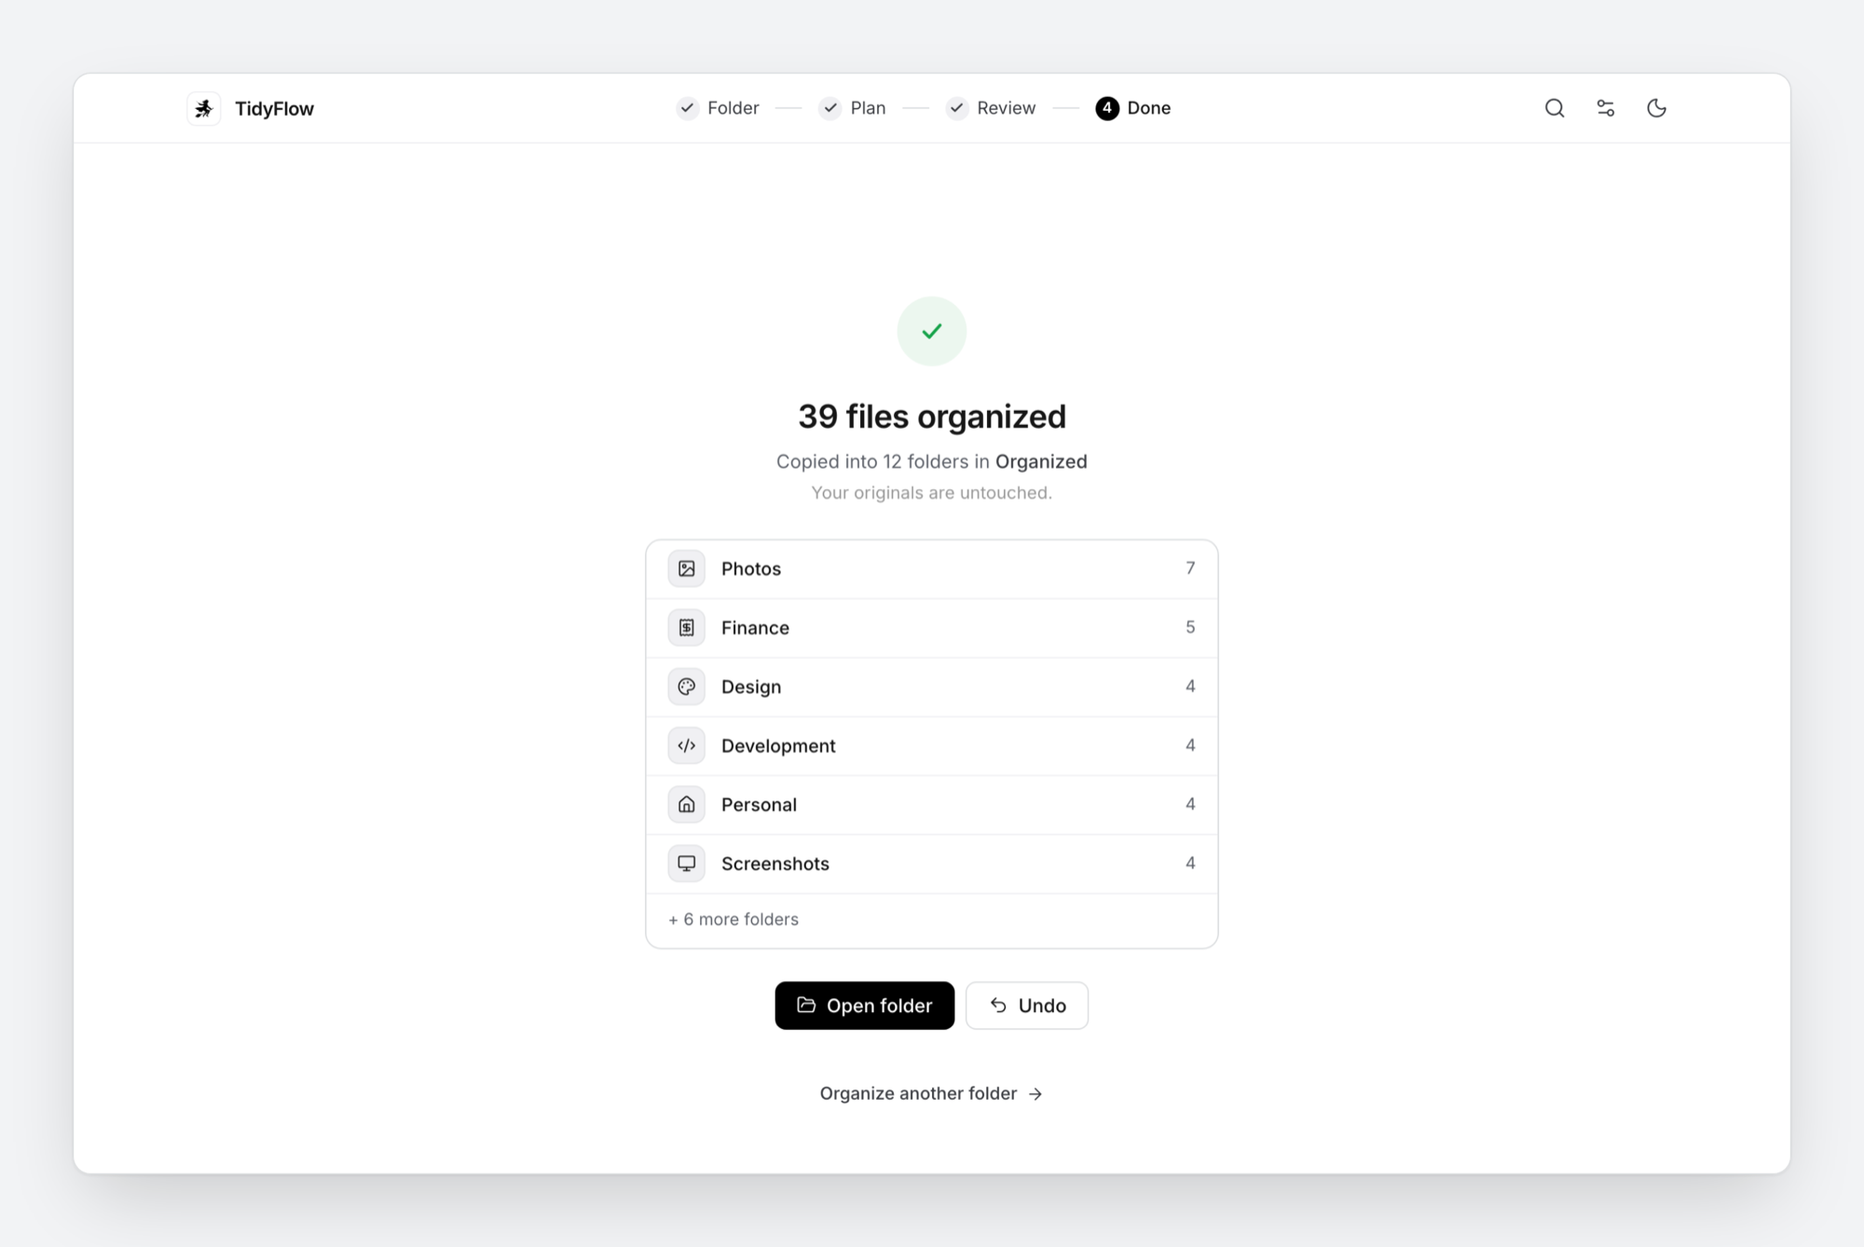
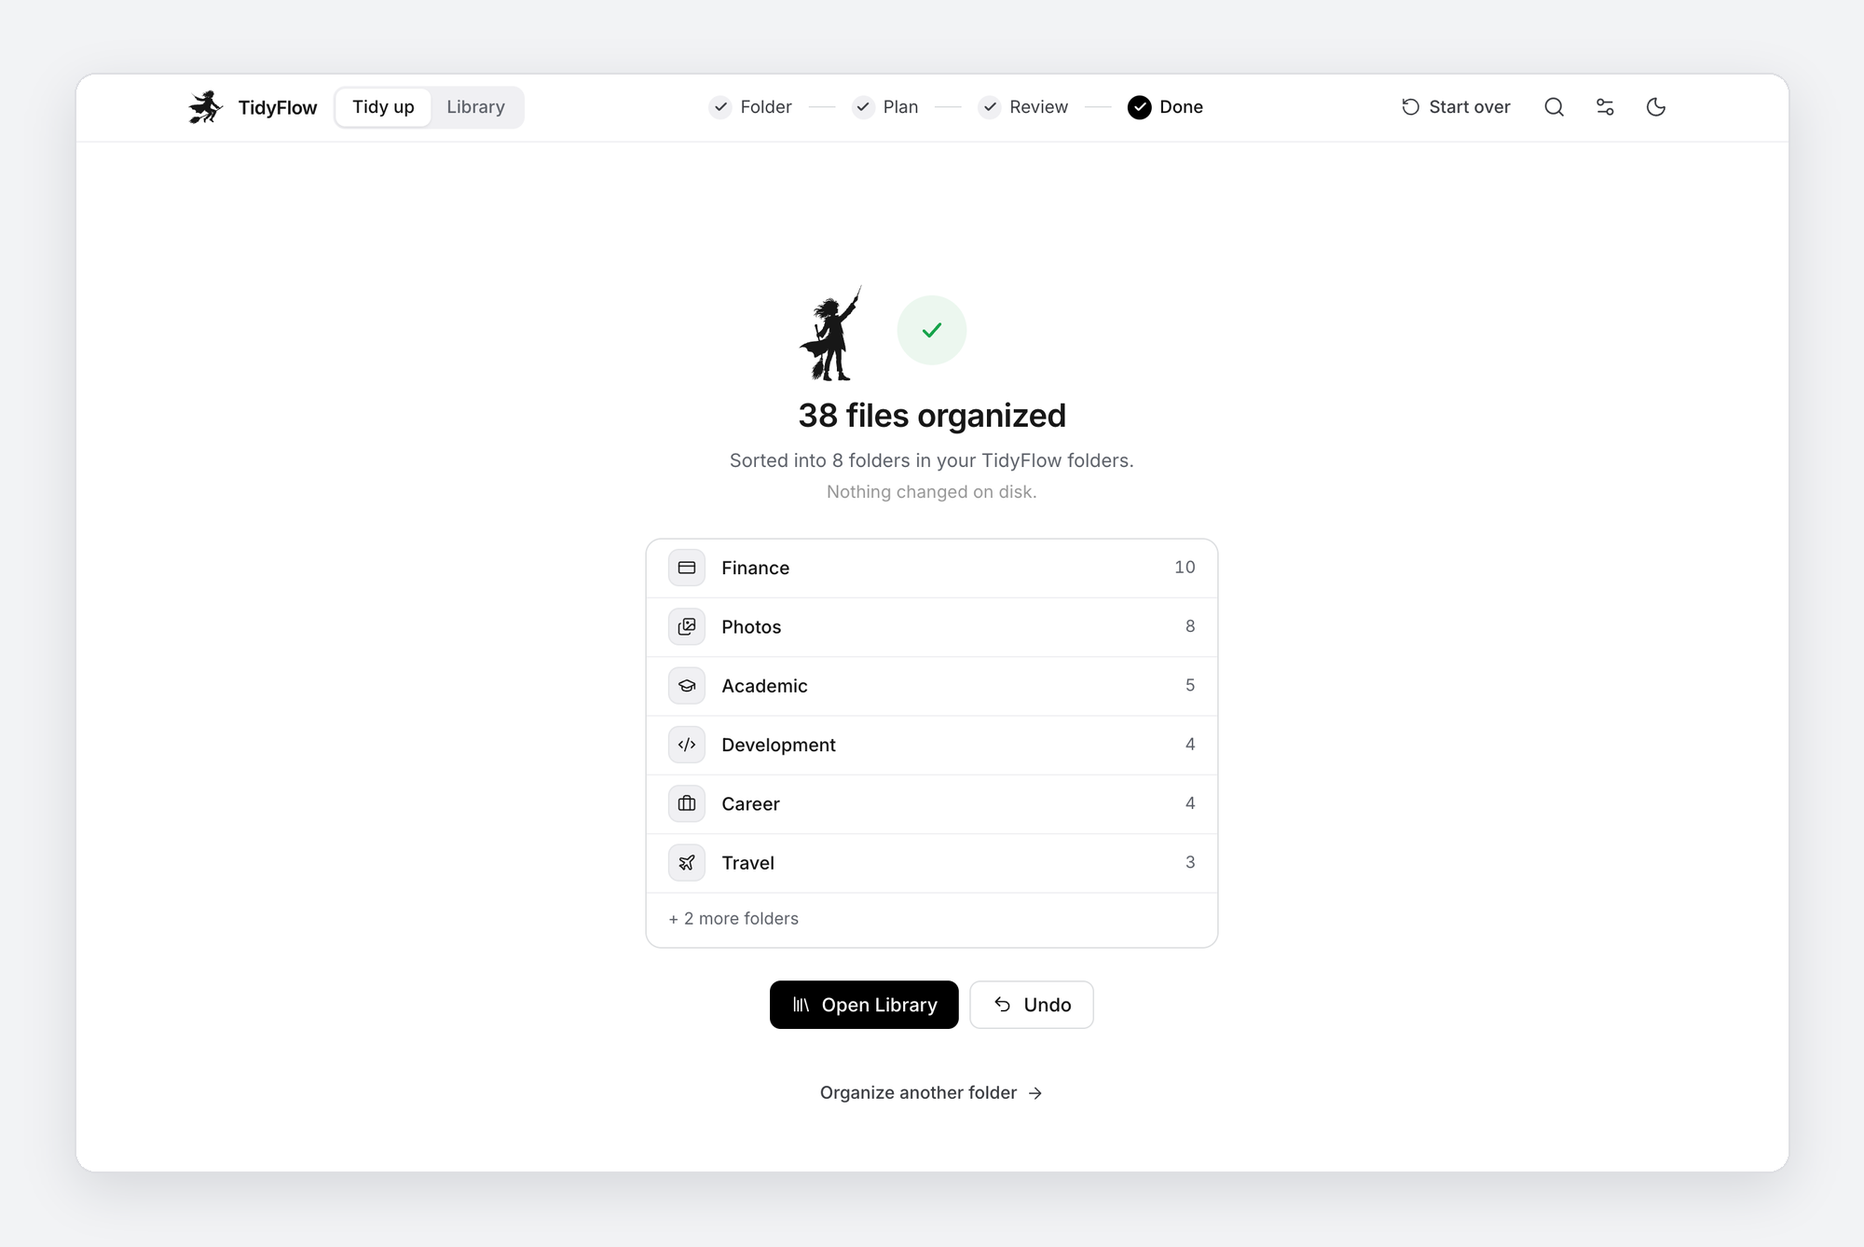
docs: rewrite the README for the Library, new files and learned rules
New light and dark screenshots of every screen, mermaid diagrams of the
loop, the Library, the new-file check, learned rules and the pipeline,
and an updated project layout.

diff --git a/README.md b/README.md
@@ -6,7 +6,8 @@
 
 <p align="center">
   Point it at a messy folder. It reads your files, proposes a clean set of folders,
-  shows you where everything will go, and only touches a file after you say so.
+  and sorts everything into a Library you keep using. New downloads get a suggested folder
+  the next time you open it, and it learns from where you put things.
 </p>
 
 <p align="center">
@@ -19,28 +20,62 @@
 
 <p align="center">
   <picture>
-    <source media="(prefers-color-scheme: dark)" srcset="assets/screenshots/plan-dark.png" />
-    <img src="assets/screenshots/plan-light.png" alt="TidyFlow proposing folders for a Downloads folder" width="100%" />
+    <source media="(prefers-color-scheme: dark)" srcset="assets/screenshots/library-dark.png" />
+    <img src="assets/screenshots/library-light.png" alt="The TidyFlow Library: folders on the left, files with what's inside them and where they really live on the right" width="100%" />
   </picture>
 </p>
 
-## How it works
+## Contents
+
+- [The idea](#the-idea)
+- [Tidy up a folder](#tidy-up-a-folder)
+- [The Library](#the-library)
+- [New since last time](#new-since-last-time)
+- [It learns from you](#it-learns-from-you)
+- [Search](#search)
+- [What makes it different](#what-makes-it-different)
+- [Privacy](#privacy)
+- [How it works inside](#how-it-works-inside)
+- [Install](#install) · [Run from source](#run-from-source) · [Build](#build) · [Command line](#command-line) · [Project layout](#project-layout)
+
+## The idea
+
+Most organizers are a one-time clean-up. You run them, the folder looks nice for a week, and then Downloads fills up again. TidyFlow is built around a loop instead:
+
+```mermaid
+flowchart TD
+    A["📂 Messy folder<br/>Downloads, Desktop…"] --> B["<b>Tidy up</b><br/>reads every file, proposes folders"]
+    B --> C["<b>You review</b> and approve"]
+    C --> D[("📚 Library<br/>TidyFlow folders")]
+    D -- "next time you open the app" --> E["<b>New since last time</b><br/>finds files it hasn't seen"]
+    E --> F["Suggests a folder for each one"]
+    F --> C
+    C -. "you pick a different folder" .-> G["<b>Learned rules</b><br/>“bill” → Finance / Bills"]
+    G -. "better suggestions" .-> F
+```
+
+1. **Tidy up** a folder once. TidyFlow reads what's inside every file and proposes folders that fit *your* files.
+2. Files land in the **Library**, in **TidyFlow folders**. By default nothing moves on disk; the Library remembers where each file belongs.
+3. Each time you open TidyFlow, it looks for **new files** in the folders you tidied and suggests where they go.
+4. When you put a file somewhere else than it suggested, it notices. After a couple of times it **offers a rule**, so the next suggestion is right.
+
+## Tidy up a folder
 
 <table>
   <tr>
     <td width="50%" valign="top">
       <picture>
         <source media="(prefers-color-scheme: dark)" srcset="assets/screenshots/home-dark.png" />
-        <img src="assets/screenshots/home-light.png" alt="Choose a folder" />
+        <img src="assets/screenshots/home-light.png" alt="Choose a folder to tidy up" />
       </picture>
-      <p><b>1. Pick a folder</b><br />Downloads, Desktop, or any folder. Then agree on a plan like the one above, or ask for changes in plain English.</p>
+      <p><b>1. Pick a folder</b><br />Downloads, Desktop, Documents, or any folder you choose.</p>
     </td>
     <td width="50%" valign="top">
       <picture>
-        <source media="(prefers-color-scheme: dark)" srcset="assets/screenshots/sorting-dark.png" />
-        <img src="assets/screenshots/sorting-light.png" alt="Sorting files" />
+        <source media="(prefers-color-scheme: dark)" srcset="assets/screenshots/plan-dark.png" />
+        <img src="assets/screenshots/plan-light.png" alt="A proposed folder plan" />
       </picture>
-      <p><b>2. It reads every file</b><br />Contents, not just names, including the text inside scans and screenshots.</p>
+      <p><b>2. Agree on a plan</b><br />The folders come from your files. Make it simpler or more detailed, or ask for changes in plain English.</p>
     </td>
   </tr>
   <tr>
@@ -49,29 +84,235 @@
         <source media="(prefers-color-scheme: dark)" srcset="assets/screenshots/review-dark.png" />
         <img src="assets/screenshots/review-light.png" alt="Review where files will go" />
       </picture>
-      <p><b>3. Review</b><br />Files it is sure about are already placed. The few it isn't sure about are waiting for you.</p>
+      <p><b>3. Review</b><br />Files it's sure about are already placed. The few it isn't sure about wait for you, with the reason for each guess.</p>
     </td>
     <td width="50%" valign="top">
-      <img src="assets/screenshots/done-light.png" alt="Files organized" />
-      <p><b>4. Done, and undoable</b><br />Files are copied into an <code>Organized</code> folder. One click puts everything back.</p>
+      <picture>
+        <source media="(prefers-color-scheme: dark)" srcset="assets/screenshots/done-dark.png" />
+        <img src="assets/screenshots/done-light.png" alt="Files organized" />
+      </picture>
+      <p><b>4. Done, and undoable</b><br />Open the Library to see the result, or press Undo to put everything back the way it was.</p>
     </td>
   </tr>
 </table>
+
+### Three ways to finish
+
+<picture>
+  <source media="(prefers-color-scheme: dark)" srcset="assets/screenshots/review-apply-dark.png" />
+  <img src="assets/screenshots/review-apply-light.png" alt="The three ways to finish: sort into TidyFlow folders, also copy, or also move" width="100%" />
+</picture>
+
+| Option | What happens on disk | Good for |
+| :-- | :-- | :-- |
+| **Sort into TidyFlow folders** (default) | Nothing. Files stay where they are; the Library knows which folder each belongs to. | Trying it out, or folders other apps expect to stay put |
+| **Also copy into real folders** | Clean copies go into an `Organized` folder. Every copy is checked with SHA-256. | Keeping originals while getting real folders in Finder or Explorer |
+| **Also move into real folders** | Files move into real folders on disk. Undo checks each file's hash and moves it back. | A real clean-up of Downloads or Desktop |
+
+Whichever you pick, the files also show up in the Library.
+
+## The Library
+
+The Library is a small file manager for your TidyFlow folders. It opens by default once you've tidied a folder.
+
+<table>
+  <tr>
+    <td width="50%" valign="top">
+      <picture>
+        <source media="(prefers-color-scheme: dark)" srcset="assets/screenshots/library-dark.png" />
+        <img src="assets/screenshots/library-light.png" alt="A TidyFlow folder: only in TidyFlow" />
+      </picture>
+      <p><b>Only in TidyFlow</b> (dashed blue icon)<br />The folder lives in TidyFlow. Its files stay wherever they are on disk, and <i>Really lives in</i> shows where.</p>
+    </td>
+    <td width="50%" valign="top">
+      <picture>
+        <source media="(prefers-color-scheme: dark)" srcset="assets/screenshots/library-real-dark.png" />
+        <img src="assets/screenshots/library-real-light.png" alt="A real folder on disk" />
+      </picture>
+      <p><b>Real folder on disk</b> (solid grey icon)<br />Every file in it is also in one folder on disk, so Finder sees the same thing you do.</p>
+    </td>
+  </tr>
+</table>
+
+A file can be in more than one TidyFlow folder (copy and paste it into a second one), and files that aren't in any folder wait under **Not sorted yet**.
+
+```mermaid
+flowchart LR
+    subgraph lib["📚 TidyFlow Library"]
+        direction TB
+        F["Finance"] --> B["Bills"]
+        T["Travel"]
+        P["Photos (real)"]
+    end
+    subgraph disk["💽 On disk"]
+        direction TB
+        DL["~/Downloads/<br/>airtel-bill-nov.pdf<br/>boarding-pass.pdf<br/>salary-slip.pdf"]
+        PIC["~/Pictures/Photos/<br/>IMG_4810.JPG …"]
+    end
+    B -. "points at" .-> DL
+    F -. "points at" .-> DL
+    T -. "points at" .-> DL
+    P == "is" ==> PIC
+```
+
+### What you can do
+
+| Action | Touches disk? | Notes |
+| :-- | :-: | :-- |
+| New folder, rename or delete a TidyFlow folder | No* | A new folder goes inside the one you're in. Deleting a folder sends its files to *Not sorted yet*. *Renaming a real folder renames it on disk too |
+| Cut, copy, paste between folders (⌘X ⌘C ⌘V) | No | Copy adds a file to a second folder; cut moves it |
+| Remove from folder | No | The file goes back to *Not sorted yet* |
+| Rename a file (↩) | Yes | Renames it in place; refuses if the name is taken |
+| **Move on disk…** | Yes | Moves the picked files to a folder you choose, checking each one's hash |
+| **Make it a real folder…** | Yes | Moves every file in the folder into one disk folder; if one fails, the ones already moved go back |
+| Move to Trash (⌫) | Yes | Always the system Trash, never a permanent delete |
+| Undo (⌘Z) | Back as it was | Several steps deep, newest first. A disk change is undone only if the file's hash still matches |
+
+Anything that touches the disk asks first (except renaming a file). If you rename or move a file in Finder, TidyFlow follows it by its disk identity and then by its contents, so it keeps its folders.
+
+## New since last time
+
+TidyFlow doesn't run in the background. When you open it, or press **Check**, it looks in the folders you've tidied for files it hasn't seen before.
+
+<table>
+  <tr>
+    <td width="50%" valign="top">
+      <picture>
+        <source media="(prefers-color-scheme: dark)" srcset="assets/screenshots/library-banner-dark.png" />
+        <img src="assets/screenshots/library-banner-light.png" alt="A banner saying 5 new files arrived in Downloads" />
+      </picture>
+      <p><b>A banner tells you</b><br />with a count on the Library tab. <i>Later</i> hides it until the next check.</p>
+    </td>
+    <td width="50%" valign="top">
+      <picture>
+        <source media="(prefers-color-scheme: dark)" srcset="assets/screenshots/newfiles-dark.png" />
+        <img src="assets/screenshots/newfiles-light.png" alt="New files with a suggested folder for each" />
+      </picture>
+      <p><b>Each file gets a suggestion</b><br />from your own folders. Change any of them, then sort. Nothing on disk moves.</p>
+    </td>
+  </tr>
+</table>
+
+```mermaid
+sequenceDiagram
+    autonumber
+    actor You
+    participant App as TidyFlow
+    participant Disk as ~/Downloads
+    participant Pipe as Pipeline (rules → AI)
+    You->>App: open the app (or press Check)
+    App->>Disk: list files in each tidied folder
+    Disk-->>App: 5 files TidyFlow hasn't seen
+    App-->>You: banner, count on the Library tab
+    You->>App: Sort them
+    App->>Pipe: read just those 5 files
+    Pipe-->>App: a folder for each, from your folders
+    You->>App: check, change any, Sort 5 files
+    App->>App: save to the Library, remember your changes
+```
+
+A file counts as new when it has never been seen, not because of its date, so unzipped files and old downloads with old timestamps still show up.
+
+## It learns from you
+
+When you put a file in a different folder than the one TidyFlow suggested, on the review screen, on the New files screen, or by cutting and pasting it in the Library, that's a **correction**. When two or more corrections into one folder share a word in their names, the Library offers a rule:
+
+<picture>
+  <source media="(prefers-color-scheme: dark)" srcset="assets/screenshots/rule-offer-dark.png" />
+  <img src="assets/screenshots/rule-offer-light.png" alt="The offer: You put 2 files with “bill” in the name in Finance / Bills. Suggest Bills for files like that from now on?" width="100%" />
+</picture>
+
+```mermaid
+flowchart TD
+    A["You put a file somewhere<br/>other than suggested"] --> B[("corrections")]
+    B --> C{"2+ share a word?"}
+    C -- no --> W["wait for more"]
+    C -- yes --> D{"word also in an<br/>unrelated folder?"}
+    D -- yes --> W
+    D -- no --> E["Offer: “bill” → Finance / Bills"]
+    E -- "Yes, suggest it" --> R[("learned rule")]
+    E -- "No thanks" --> X["never offered again"]
+    R --> S["Next time a file with “bill”<br/>in its name is suggested Finance / Bills"]
+```
+
+- Rules only **suggest** a folder. You still see and check every file.
+- Dates, months, file types and filler words like *copy*, *final* or *scan* never become rules.
+- A rule follows its folder if you rename or move the folder.
+- Your rules are listed in **Settings → Library**, where **Forget** removes one (and Undo brings it back).
+
+<picture>
+  <source media="(prefers-color-scheme: dark)" srcset="assets/screenshots/settings-dark.png" />
+  <img src="assets/screenshots/settings-light.png" alt="Settings: Finder tags and the rules TidyFlow learned" width="100%" />
+</picture>
+
+### Finder tags (macOS)
+
+Turn on **Tag files in Finder** and each file in a TidyFlow folder gets a Finder tag named after its folder, so Finder's sidebar and Spotlight can find a folder's files too. Files don't move. TidyFlow remembers which tags it added and only ever takes those away, so tags you added yourself stay.
+
+## Search
+
+Search looks through file names and the text inside documents, receipts and screenshots, including text read by OCR.
+
+<picture>
+  <source media="(prefers-color-scheme: dark)" srcset="assets/screenshots/search-dark.png" />
+  <img src="assets/screenshots/search-light.png" alt="Search results with folder filters and each result's folder and location" width="100%" />
+</picture>
+
+- Filter by TidyFlow folder or file type, or limit the search with **In: All folders ▾**.
+- Each result shows its folder and where it really lives on disk.
+- **Add all to a folder…** puts every result into a TidyFlow folder in one go.
+- The search box at the top of a Library folder searches just that folder.
 
 ## What makes it different
 
 - **It reads the files, not just the names.** It reads text from PDFs, Office documents, code and spreadsheets, and uses on-device OCR for scans and screenshots (Apple Vision on macOS, PaddleOCR on Windows). So `scan_0412.pdf` ends up next to your other invoices.
 - **The folders come from your files.** The plan is built from your actual files, not a fixed template, and the detail level runs from *Fewer* to *Detailed*.
-- **Nothing happens until you approve.** By default files are copied, not moved. Every copy is checked with SHA-256, and existing files are never overwritten.
-- **Undo is real.** Undo checks each file's hash before removing anything, then cleans up the empty folders it created.
+- **It keeps working after the first sort.** The Library, new-file checks and learned rules turn a one-time clean-up into a habit.
+- **Nothing happens until you approve.** By default nothing moves on disk at all. When files are copied or moved, each one is checked with SHA-256, and existing files are never overwritten.
+- **Undo is real.** Every Library action can be undone, several steps back. Undo checks each file's hash before it changes anything on disk.
 - **Duplicates are flagged.** That covers exact copies and near-identical images such as resized photos or repeat screenshots.
-- **It works without AI.** With no API key it falls back to rules and file types. With a key, it uses the provider you pick: DeepSeek, OpenAI, Gemini, Groq, OpenRouter, or any OpenAI-compatible endpoint.
+- **It works without AI.** With no API key it falls back to rules, your learned rules and file types. With a key, it uses the provider you pick: DeepSeek, OpenAI, Gemini, Groq, OpenRouter, or any OpenAI-compatible endpoint.
 
 ## Privacy
 
 Your files stay on your computer, and so do the OCR and text extraction. If you connect an AI provider, only file names and short text excerpts are sent to classify them. Passwords, API keys and tokens are scrubbed from that text before it leaves. Without a key, nothing is sent anywhere.
 
-Settings and keys live in your user data folder (`~/Library/Application Support/TidyFlow` or `%APPDATA%\TidyFlow`) and are readable only by you.
+The Library, your learned rules and the undo history are kept in a local SQLite database. Finder tags are written to the files' own metadata on your Mac and nowhere else. Settings and keys live in your user data folder (`~/Library/Application Support/TidyFlow` or `%APPDATA%\TidyFlow`) and are readable only by you.
+
+## How it works inside
+
+TidyFlow is a local web app in a native window: a FastAPI server on your machine and a React UI.
+
+```mermaid
+flowchart TB
+    UI["<b>React UI</b> (frontend/)<br/>Tidy up · Library · New files · Search · Settings"]
+    UI <-- "HTTP on localhost" --> API
+    subgraph API["FastAPI server (src/api.py)"]
+        direction LR
+        P["<b>Pipeline</b><br/>main_loop.py"]
+        LO["<b>Library actions</b><br/>library_ops.py"]
+        NW["<b>New-file check</b><br/>library_new.py"]
+        RL["<b>Learned rules</b><br/>library_rules.py"]
+        TG["<b>Finder tags</b><br/>library_tags.py"]
+    end
+    P -. "names + short excerpts" .-> AI(["AI provider<br/>(optional)"])
+    API --> DB[("<b>SQLite</b><br/>files · folders · folder_files<br/>corrections · learned_rules<br/>library_ops (undo history)")]
+    API -- "reads; changes only after you confirm" --> FS[("💽 Your files")]
+```
+
+Each file goes through the same pipeline, whether it's part of a full tidy-up or one new download:
+
+```mermaid
+flowchart TD
+    A["<b>Scan and hash</b><br/>skips system and secret files,<br/>finds exact and near duplicates"] --> C["<b>Read</b><br/>text from PDFs, Office files, code;<br/>OCR for scans and screenshots"]
+    C --> E["<b>Rules</b><br/>keywords, file types, your learned rules"]
+    E -- "sure" --> G["Folder + the reason why"]
+    E -- "not sure" --> F["<b>AI</b>, in batches<br/>(skipped without a key)"]
+    F --> G
+    G --> H{"confident?"}
+    H -- yes --> I["placed for you"]
+    H -- no --> J["waits for your review"]
+```
 
 ## Install
 
@@ -130,7 +371,7 @@ PyInstaller can't cross-compile, so each platform has to be built on that platfo
 
 ## Command line
 
-The same pipeline is also available from the terminal:
+The tidy-up pipeline is also available from the terminal:
 
 ```bash
 python3 -m src.cli run -i ~/Downloads -o ~/Downloads/Organized          # dry run with an HTML report
@@ -144,17 +385,26 @@ Defaults such as the confidence threshold, OCR, batch size and duplicate sensiti
 ## Project layout
 
 ```
-src/            FastAPI server, classification pipeline, CLI
-  scanner.py      file discovery and ignore rules
-  extractor.py    text from PDFs, Office files, code
-  ocr_engine.py   Apple Vision / PaddleOCR
-  hashing.py      SHA-256 and perceptual-hash duplicates
-  llm_provider.py batched AI classification
-  ai_assistant.py folder planning and plain-English edits
-  applier.py      verified copy / move and undo
-frontend/       React + TypeScript + Tailwind UI
-build/          desktop packaging for macOS and Windows
-tests/          pytest suite
+src/              FastAPI server, classification pipeline, CLI
+  scanner.py        file discovery and ignore rules
+  extractor.py      text from PDFs, Office files, code
+  ocr_engine.py     Apple Vision / PaddleOCR
+  hashing.py        SHA-256 and perceptual-hash duplicates
+  rules.py          keyword, file-type and learned rules
+  llm_provider.py   batched AI classification
+  ai_assistant.py   folder planning and plain-English edits
+  applier.py        verified copy / move and undo
+  database.py       SQLite index and full-text search
+  library.py        TidyFlow folders and where each file lives
+  library_ops.py    Library actions and multi-step undo
+  library_new.py    "new since last time" and following moved files
+  library_rules.py  rules learned from your corrections
+  library_tags.py   Finder tags (macOS)
+frontend/         React + TypeScript + Tailwind UI
+  src/flow/         the Tidy up wizard
+  src/components/   Library, Search, Settings
+build/            desktop packaging for macOS and Windows
+tests/            pytest suite
 ```
 
 ```bash
